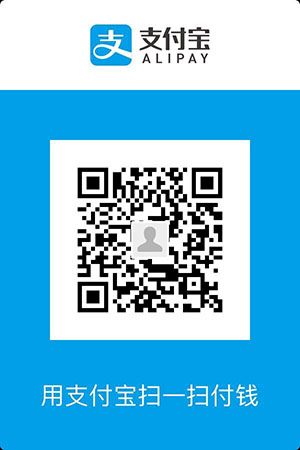
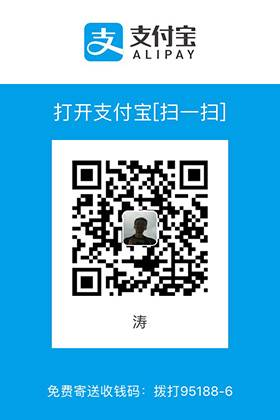
2.0.82 - New donation images.

diff --git a/playease.html b/playease.html
@@ -538,8 +538,7 @@ _eventMapping = {
 			height: 400,
 			maxretries: -1,
 			render: {
-				name: 'def',
-				title: 'CHATEASE ' + chatease.version,
+				name: 'none',
 				swf: 'swf/chatease.swf'
 			}
 		});

diff --git a/css/global.css b/css/global.css
@@ -217,7 +217,7 @@ ul.circle {
 	list-style-type: none;
 }
 .info span {
-	padding-left: 16px;
+	padding-left: 20px;
 	color: #999999;
 	background-position: left;
 }
